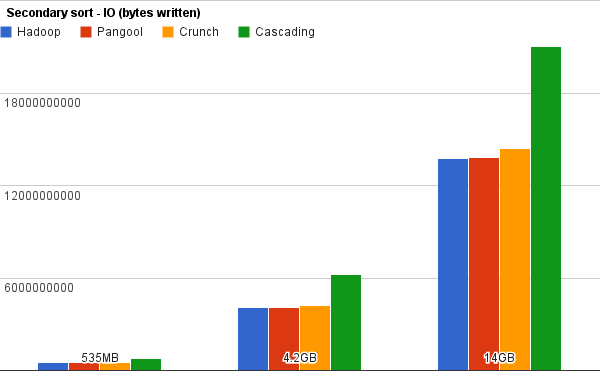
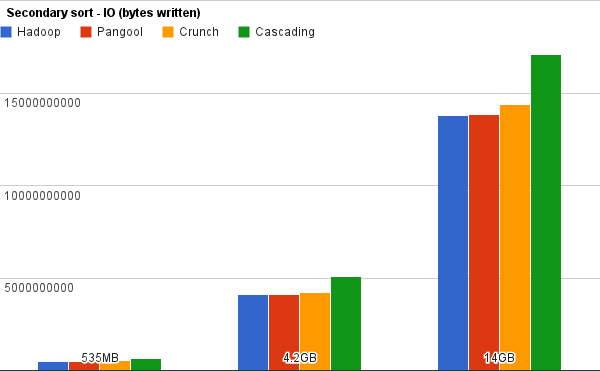
Update of cascading tests

diff --git a/benchmark.html b/benchmark.html
@@ -8,7 +8,7 @@ title: Pangool Benchmark
 
 <p>
 In order to demonstrate that Pangool performs comparable to Hadoop, we have designed a benchmark and executed it in EC2.
-This benchmark has been updated as of <strong>8th of March of 2012</strong>.
+This benchmark has been updated as of <strong>9th of March of 2012</strong>.
 </p>
 <div class="alert">
 We take this benchmark seriously. We have made all its details publicly available so if you find something wrong or have any comment you can just tell us or submit a pull request. You can run this benchmark anytime by following its instructions and if you find something weird, please tell us. 
@@ -64,7 +64,7 @@ These are the results that we obtained in time (seconds) and IO (bytes):
 <img src='images/benchmark/ur_io.png'/>
 </p>
 <p>
-We can see that all implementations had a comparable IO footprint. However, we clearly see that Pangool and Hadoop are much closer in efficiency than Crunch or Avro. In this case Pangool performed 8% worse than Hadoop, Crunch 27% and Cascading 53%.
+We can see that all implementations had a comparable IO footprint. However, we clearly see that Pangool and Hadoop are much closer in efficiency than Crunch or Avro. In this case Pangool performed 8% worse than Hadoop, Crunch 27% and Cascading 181%.
 </p>
 <h2>Secondary sort</h2>
 
@@ -88,7 +88,7 @@ These are the results that we obtained in time (seconds) and IO (bytes):
 <img src='images/benchmark/ss_io.png'/>
 </p>
 <p>
-In this example Hadoop and Pangool are both close in efficiency and IO footprint. However, Cascading deviates considerably in both aspects. Pangool performed 5% worse than Hadoop, Crunch 28% and Cascading 205%.
+In this example Hadoop and Pangool are both close in efficiency and IO footprint. However, Cascading deviates considerably in both aspects. Pangool performed 5% worse than Hadoop, Crunch 28% and Cascading 185%.
 </p>
 
 <h2>Standard Word Count</h2>
